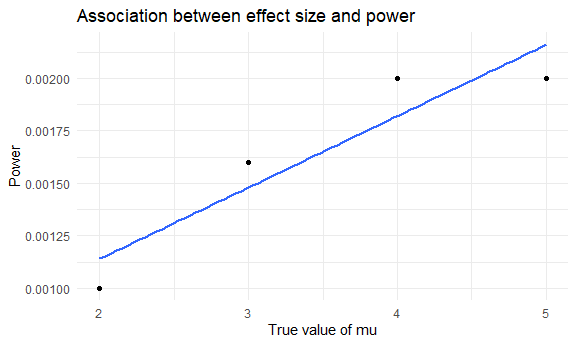
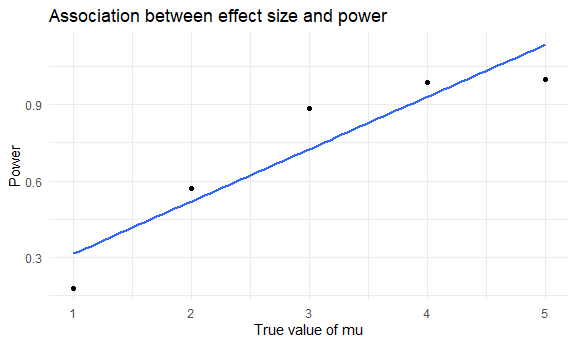
changes the figures in problem 3, and further explanations

diff --git a/p8105_hw5_rsb2204.md b/p8105_hw5_rsb2204.md
@@ -213,7 +213,8 @@ victim.
 
 ``` r
 homicide_data = read_csv("data/homicide-data.csv") %>%
-  mutate(city_state = str_c(city,    state, sep=", "),unsolved = ifelse((disposition=="Closed without arrest" | disposition =="Open/No arrest"), 1, 0)) 
+  mutate(city_state = str_c(city,    state, sep=", "),unsolved = ifelse((disposition=="Closed without arrest" | disposition =="Open/No arrest"), 1, 0)) %>%
+  mutate(city_state = replace(city_state, city_state == "Tulsa, AL", "Tulsa, OK"))
 ```
 
     ## Rows: 52179 Columns: 12
@@ -283,9 +284,20 @@ knitr::kable()
 | St. Louis, MO      |  1677 |      905 |
 | Stockton, CA       |   444 |      266 |
 | Tampa, FL          |   208 |       95 |
-| Tulsa, AL          |     1 |        0 |
-| Tulsa, OK          |   583 |      193 |
+| Tulsa, OK          |   584 |      193 |
 | Washington, DC     |  1345 |      589 |
+
+While creating the `city_state` variable I noticed that one of the rows
+seems to have an incorrect state column value of “AL” - Alabama for the
+city of Tulsa, which is actually in Oklahoma. To combat this issue,
+after creating the `city_state` variable using str_c() to concatenate
+the strings. We additionally create a binary variable of `unsolved` to
+determine the number of unsolved homicides which are coded as “Closed
+without arrest” and “Open/No arrest”.
+
+To create the table of the number of cities with the total number of
+homicides and number of unsolved homicides, we used the grouped by the
+`city_state` variable and used the summarize function.
 
 Estimating the proportion of homicides that are unsolved:
 
@@ -304,7 +316,7 @@ baltimore = homicide_data %>%
     ## 1    0.646    0.628     0.663
 
 Hence the estimated proportion is 0.646, the confidence interval for the
-proportion for the city of Baltimore, MD.
+proportion for the city of Baltimore, MD is (0.628, 0.663).
 
 Running `prop.test` function to estimate the proportion of homicides,
 that are unsolved for each city.
@@ -367,12 +379,15 @@ knitr::kable()
 | St. Louis, MO      | 0.5396541 | 0.5154369 | 0.5636879 |
 | Stockton, CA       | 0.5990991 | 0.5517145 | 0.6447418 |
 | Tampa, FL          | 0.4567308 | 0.3881009 | 0.5269851 |
-| Tulsa, AL          | 0.0000000 | 0.0000000 | 0.9453792 |
-| Tulsa, OK          | 0.3310463 | 0.2932349 | 0.3711192 |
+| Tulsa, OK          | 0.3304795 | 0.2927201 | 0.3705039 |
 | Washington, DC     | 0.4379182 | 0.4112495 | 0.4649455 |
 
+The above table uses prop.test for each city and displays the proportion
+of unsolved homicides and the confidence intervals for each.
+
 Creating a plot for the estimates and CI’s for each city, organizing the
-cities according to the proportion of unsolved homicides:
+cities according to the proportion of unsolved homicides (using
+fct_reorder):
 
 ``` r
 city_state %>%
@@ -388,8 +403,8 @@ geom_errorbar(aes(ymin=conf.low, ymax=conf.high))
 
 <img src="p8105_hw5_rsb2204_files/figure-gfm/unnamed-chunk-8-1.png" width="90%" />
 
-From the plot we see that Tulsa has the lowest proportion of unsolved
-homicides while Chicago has the highest proportion of unsolved
+From the plot we see that Richmond, VA has the lowest proportion of
+unsolved homicides while Chicago has the highest proportion of unsolved
 homicides.
 
 ## Problem 3
@@ -423,31 +438,13 @@ sim_results_df =
   expand_grid(
     sample_size = 30,
     mu = 0,
-    iter = 1:10
+    iter = 1:5000
   ) %>% 
   mutate(
     estimate_df = map2(sample_size,mu, onesamp_test)
   ) %>% 
   unnest(estimate_df)
-
-sim_results_df
 ```
-
-    ## # A tibble: 10 × 11
-    ##    sample_s…¹    mu  iter estim…² stati…³ p.value param…⁴ conf.…⁵ conf.…⁶ method
-    ##         <dbl> <dbl> <int>   <dbl>   <dbl>   <dbl>   <dbl>   <dbl>   <dbl> <chr> 
-    ##  1         30     0     1   0.757   0.660 0.514        29  -1.59    3.10  One S…
-    ##  2         30     0     2  -0.850  -0.990 0.331        29  -2.61    0.907 One S…
-    ##  3         30     0     3   0.118   0.108 0.915        29  -2.12    2.36  One S…
-    ##  4         30     0     4   1.21    1.17  0.253        29  -0.914   3.34  One S…
-    ##  5         30     0     5   2.32    3.30  0.00255      29   0.882   3.75  One S…
-    ##  6         30     0     6   0.876   1.07  0.295        29  -0.803   2.55  One S…
-    ##  7         30     0     7   0.771   0.961 0.344        29  -0.869   2.41  One S…
-    ##  8         30     0     8  -0.966  -1.14  0.264        29  -2.70    0.768 One S…
-    ##  9         30     0     9   0.566   0.618 0.541        29  -1.31    2.44  One S…
-    ## 10         30     0    10   0.115   0.130 0.898        29  -1.69    1.92  One S…
-    ## # … with 1 more variable: alternative <chr>, and abbreviated variable names
-    ## #   ¹sample_size, ²estimate, ³statistic, ⁴parameter, ⁵conf.low, ⁶conf.high
 
 Now repeating the above for $\mu={1,2,3,4,5,6}$:
 
@@ -456,32 +453,13 @@ sim_results_df2 =
   expand_grid(
     sample_size = 30,
     mu = c(1,2,3,4,5),
-    iter = 1:10
+    iter = 1:5000
   ) %>% 
   mutate(
     estimate_df = map2(.x=sample_size,.y=mu, ~onesamp_test(n = .x, mu =.y))
   ) %>% 
   unnest(estimate_df)
-
-sim_results_df2
 ```
-
-    ## # A tibble: 50 × 11
-    ##    sample_s…¹    mu  iter estim…² stati…³ p.value param…⁴ conf.…⁵ conf.…⁶ method
-    ##         <dbl> <dbl> <int>   <dbl>   <dbl>   <dbl>   <dbl>   <dbl>   <dbl> <chr> 
-    ##  1         30     1     1   0.441   0.537  0.595       29  -1.24     2.12 One S…
-    ##  2         30     1     2   1.75    1.77   0.0875      29  -0.274    3.77 One S…
-    ##  3         30     1     3  -0.237  -0.249  0.805       29  -2.18     1.71 One S…
-    ##  4         30     1     4   1.49    1.55   0.132       29  -0.476    3.46 One S…
-    ##  5         30     1     5   1.44    1.64   0.112       29  -0.359    3.24 One S…
-    ##  6         30     1     6   0.830   0.929  0.361       29  -0.998    2.66 One S…
-    ##  7         30     1     7   0.619   0.692  0.495       29  -1.21     2.45 One S…
-    ##  8         30     1     8   0.753   0.889  0.381       29  -0.979    2.48 One S…
-    ##  9         30     1     9   1.18    1.24   0.225       29  -0.762    3.11 One S…
-    ## 10         30     1    10   1.52    1.61   0.119       29  -0.414    3.46 One S…
-    ## # … with 40 more rows, 1 more variable: alternative <chr>, and abbreviated
-    ## #   variable names ¹sample_size, ²estimate, ³statistic, ⁴parameter, ⁵conf.low,
-    ## #   ⁶conf.high
 
 Making a plot showing the proportion of times the null was rejected on
 the y axis and the true value of $\mu$ on the x axis:
@@ -490,8 +468,8 @@ the y axis and the true value of $\mu$ on the x axis:
 sim_results_df2 %>%
   group_by(mu) %>%
   filter(p.value < 0.05) %>%
-  summarize(proportion = n()/5000) %>%
-  ggplot(aes(x=mu, y=proportion))+
+  summarize(prop = n()/5000) %>%
+  ggplot(aes(x=mu, y=prop))+
   geom_point()+
   geom_smooth(method="lm", se=FALSE)+
   labs(x = "True value of mu",
@@ -504,9 +482,12 @@ sim_results_df2 %>%
 <img src="p8105_hw5_rsb2204_files/figure-gfm/unnamed-chunk-13-1.png" width="90%" />
 
 From the plot we see that there is a positive linear relationship
-between the true value of $\mu$ and the power. The effect size measures
-the strength of the relationship between variables in a population. As
-the effect size increase, the power of the test increases.
+between the true value of $\mu$ and the power and we see that as the
+value of $\mu$ increases the power of the test is close to 1, which
+indicates that the hypothesis test is good at detecting a false null
+hypothesis. This indicates The effect size measures the strength of the
+relationship between variables in a population. As the effect size
+increase, the power of the test increases.
 
 Make a plot showing the average $\hat{\mu}$ on the y-axis and the true
 value of $\mu$ on the x axis, and overlay the average estimate of
@@ -514,11 +495,23 @@ $\hat{\mu}$ only in samples for which the null was rejected:
 
 ``` r
 sim_results_df2 %>%
-  group_by(mu, estimate) %>%
-  ggplot(aes(x=mu, y=mean(estimate)))+
+  group_by(mu) %>%
+  summarize(est_mu = mean(estimate))%>%
+  ggplot(aes(x=mu, y=est_mu))+
   geom_point()+
+geom_point(data=sim_results_df2%>%filter(p.value < 0.05)%>% group_by(mu) %>% summarize(est_mu = mean(estimate)), color="red")+
   labs(x = "True value of mu",
-       y = "Average estimate of mu_hat")
+       y = "Average estimate of mu_hat", main="Estimated Average Mean vs True Mean")
 ```
 
 <img src="p8105_hw5_rsb2204_files/figure-gfm/unnamed-chunk-14-1.png" width="90%" />
+
+The sample average $\hat{\mu}$ value across tests for which the null is
+rejected is approximately equal to the true value of $\mu$ for larger
+values of $\mu$, which aligns with our reasoning that increases in
+effect size cause increases in power of a test. Though we do see that in
+the case of smaller $\mu$ values of 1, 2, 3, the estimates for which the
+null is rejected are slightly overestimating the value of the true
+$\mu$, this is due to the fact that these values have a smaller power
+value, and hence a smaller probability of successfully reject the null
+hypothesis.
